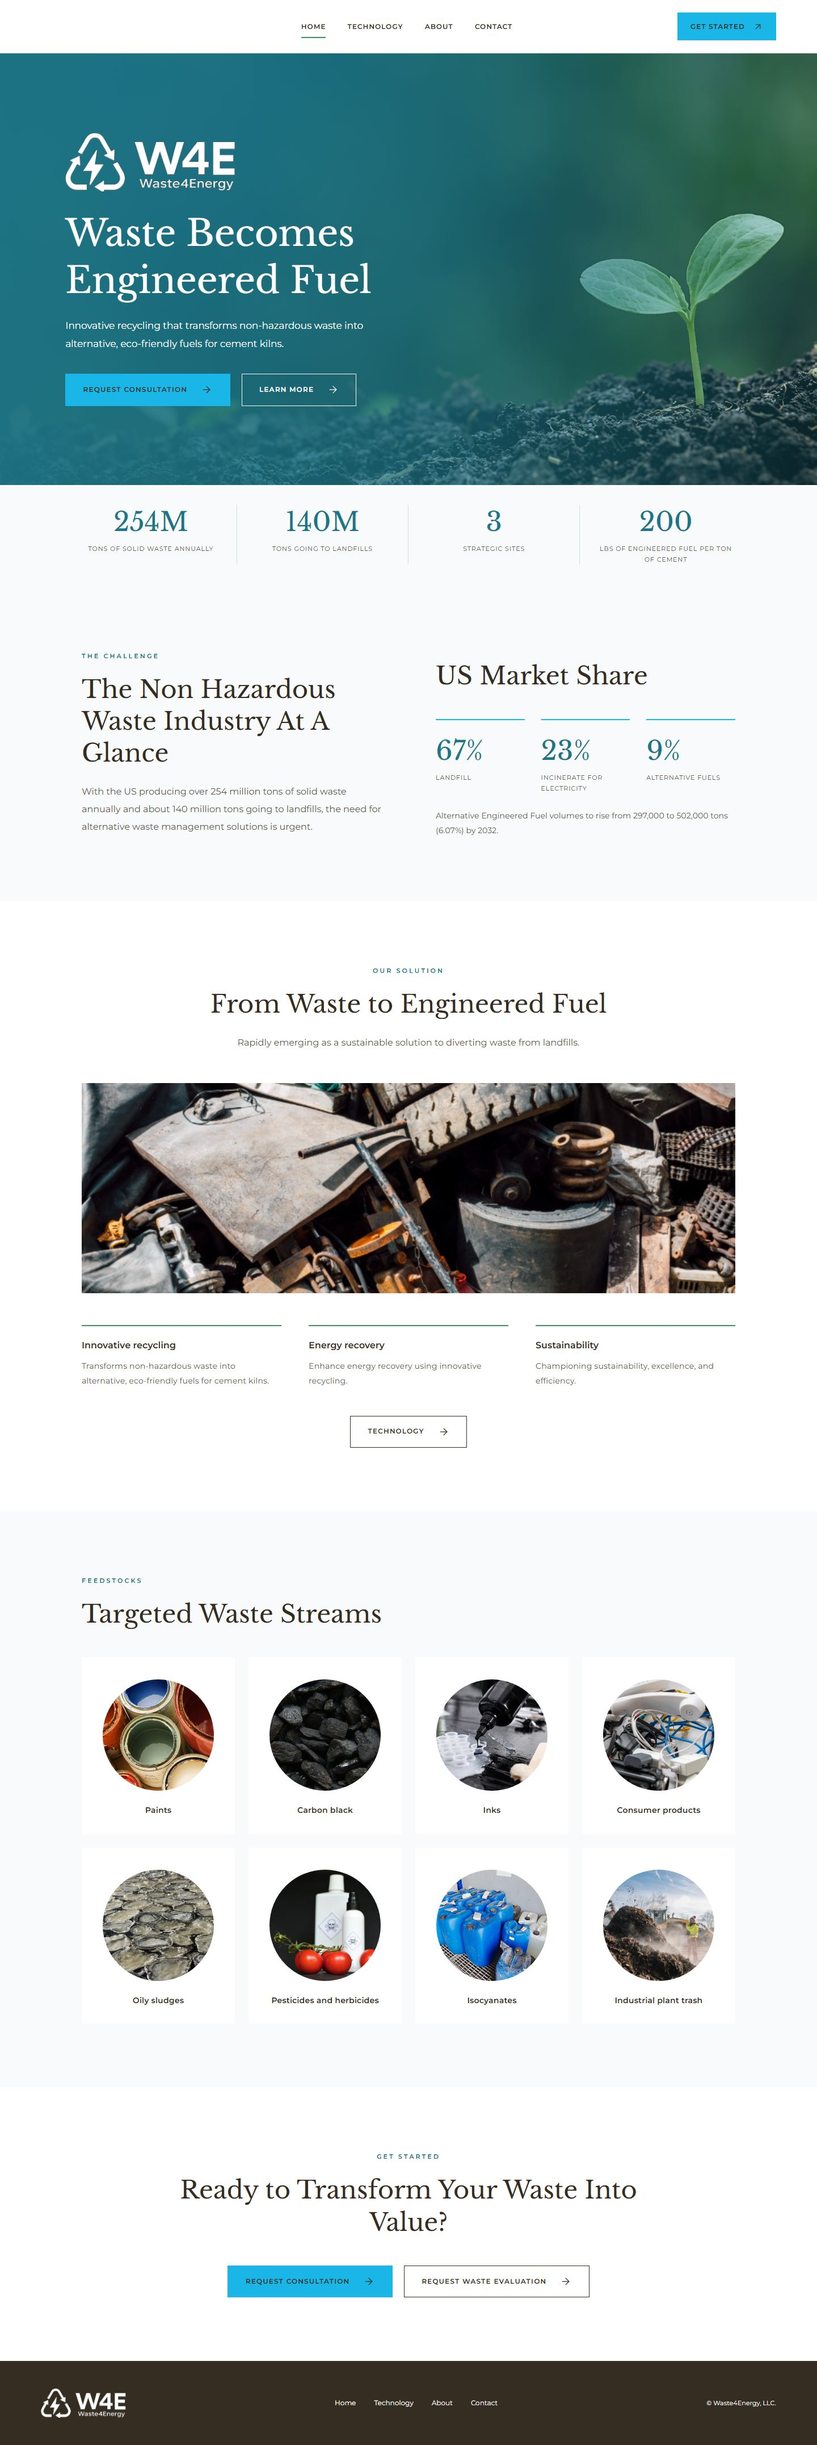
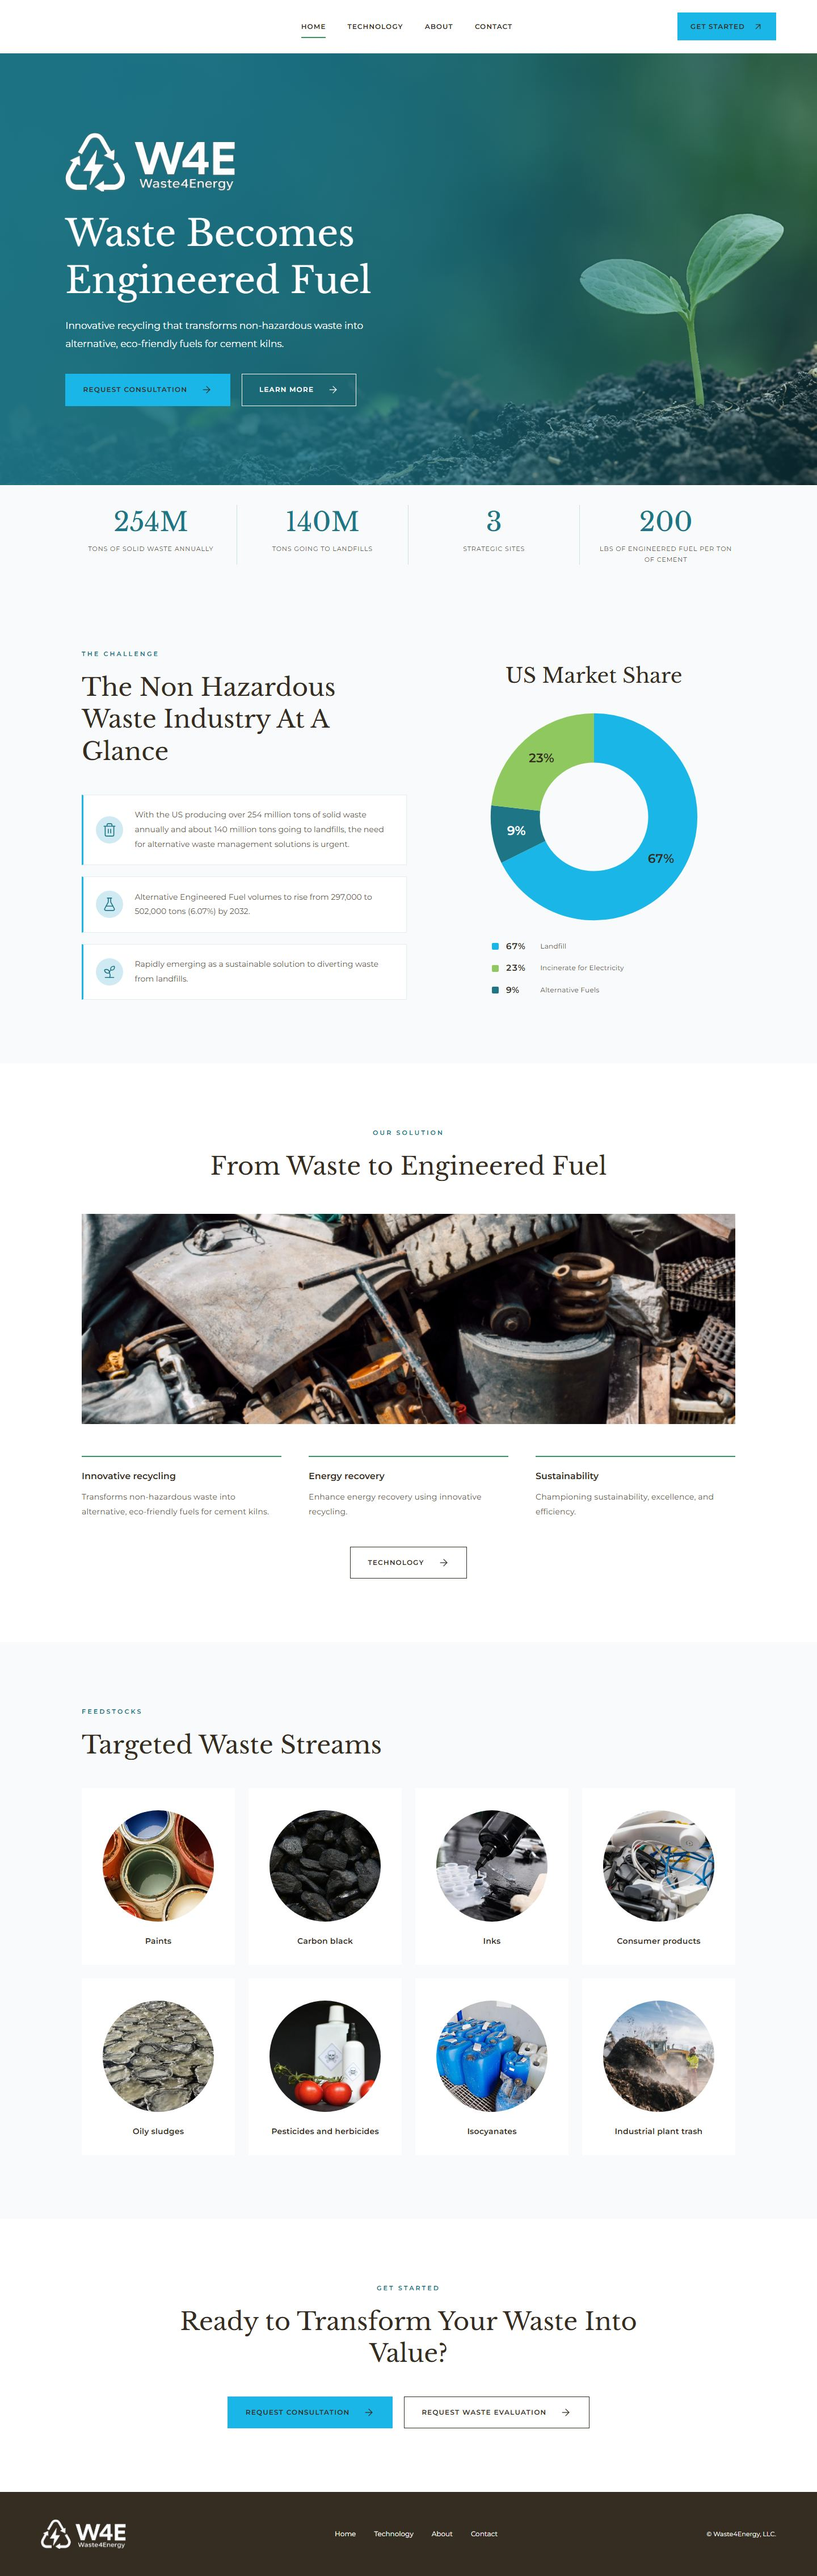
Add presentation industry callouts and donut chart and try the source Vision photo

diff --git a/Waste4Energy_Review/styles.css b/Waste4Energy_Review/styles.css
@@ -37,3 +37,26 @@
 
 .stream-card{text-align:center}
 .stream-image{width:100%;max-width:220px;aspect-ratio:1;object-fit:cover;border:5px solid var(--white);border-radius:50%;margin:0 auto 1.25rem}
+
+.challenge-grid{display:grid;grid-template-columns:1.15fr 1fr;gap:5rem;align-items:center}
+.challenge-points{display:grid;gap:1.25rem}
+.challenge-point{display:grid;grid-template-columns:48px minmax(0,1fr);gap:1.25rem;align-items:center;padding:1.4rem;background:var(--white);border:1px solid color-mix(in srgb,var(--teal) 12%,transparent);border-left:3px solid var(--cyan)}
+.challenge-symbol{width:48px;height:48px;display:flex;align-items:center;justify-content:center;border-radius:50%;background:var(--pale);color:var(--teal)}
+.challenge-symbol .icon{width:26px;height:26px}
+.challenge-point p,.challenge-point .source-growth{font-size:.875rem;line-height:1.85;margin:0}
+.market-panel>.section-head{margin-bottom:1rem;text-align:center}
+.market-panel>.section-head h2{font-size:clamp(1.7rem,2.5vw,2.35rem)}
+.market-chart{max-width:400px;margin-inline:auto}
+.market-chart svg{display:block;width:100%;height:auto;overflow:visible}
+.market-sector{fill:none;stroke-width:78}
+.market-sector-0{stroke:var(--cyan)}.market-sector-1{stroke:var(--sapling)}.market-sector-2{stroke:var(--teal)}
+.market-percent{font-family:var(--body-font);font-size:20px;font-weight:600;fill:var(--soil)}.market-percent-2{fill:var(--white)}
+.market-legend{list-style:none;display:grid;gap:.9rem;max-width:360px;margin:1rem auto 0}
+.market-legend-item{display:grid;grid-template-columns:12px 3rem minmax(0,1fr);gap:.8rem;align-items:center;padding:0;border:0}
+.market-swatch{width:12px;height:12px;border-radius:2px}
+.market-swatch-0{background:var(--cyan)}.market-swatch-1{background:var(--sapling)}.market-swatch-2{background:var(--teal)}
+.market-legend .stat-number{font-family:var(--body-font);font-size:.95rem;line-height:1.6;color:var(--soil);margin:0;font-weight:600;font-variant-numeric:tabular-nums}
+.market-label{font-size:.78rem;color:var(--muted)}
+@media(max-width:1000px){.challenge-grid{gap:2.5rem}}
+@media(max-width:850px){.challenge-grid{grid-template-columns:1fr;gap:3rem}.market-panel{max-width:440px;width:100%;margin-inline:auto}}
+@media(max-width:760px){.challenge-point{grid-template-columns:38px minmax(0,1fr);gap:1rem;padding:1.2rem}.challenge-symbol{width:38px;height:38px}.challenge-symbol .icon{width:23px;height:23px}.challenge-point p{font-size:.82rem}.market-chart{max-width:340px}}

diff --git a/Waste4Energy_Review/scripts/assets.py b/Waste4Energy_Review/scripts/assets.py
@@ -6,6 +6,7 @@ import fitz
 source = Path(sys.argv[1])
 out = Path(__file__).resolve().parents[1] / 'assets'
 doc = fitz.open(source)
+(out / 'vision-processing.jpeg').write_bytes(doc.extract_image(24)['image'])
 # Original, unmodified photos from physical slide 5, matched to their labels.
 for name, xref in [('paints', 106), ('carbon-black', 107), ('inks', 108), ('consumer-products', 109), ('oily-sludges', 110), ('pesticides-herbicides', 111), ('isocyanates', 112), ('industrial-plant-trash', 113)]:
     (out / f'waste-{name}.jpeg').write_bytes(doc.extract_image(xref)['image'])

diff --git a/Waste4Energy_Review/scripts/vendor-assets.py b/Waste4Energy_Review/scripts/vendor-assets.py
@@ -6,7 +6,7 @@ import json
 
 root = Path(__file__).resolve().parents[1]
 out = root / 'assets'
-names = ['paint-bucket','flame','droplets','package','fuel','sprout','flask-conical','factory','truck','recycle','warehouse','arrow-right','menu','x','arrow-up-right']
+names = ['paint-bucket','flame','droplets','package','fuel','sprout','flask-conical','factory','truck','recycle','warehouse','trash','arrow-right','menu','x','arrow-up-right']
 def get(url):
     return urlopen(Request(url, headers={'User-Agent':'Mozilla/5.0'}), timeout=30).read()
 

diff --git a/Waste4Energy_Review/CONTENT-MAP.md b/Waste4Energy_Review/CONTENT-MAP.md
@@ -5,9 +5,9 @@ Source: `Waste4Energy Presentation.pdf` (11 physical pages), supplied locally. T
 | Source | Destination | Verification |
 | --- | --- | --- |
 | 1: company overview | About introduction | Source wording retained, including dated projections and source grammar. |
-| 2: Our Vision | About vision / roadmap; short excerpts on Home | Texas, Alabama, Western US retained. No invented completion dates or Arizona facility. Home hero uses an excerpt from the supplied vision. |
+| 2: Our Vision | About vision / roadmap; short excerpts on Home | Texas, Alabama, Western US retained. No invented completion dates or Arizona facility. Home hero uses an excerpt from the supplied vision. The original recycling-facility photo from this slide supplies the Our Vision section's animated background. |
 | 3: executive team | About team | Visually checked: Paul Bordelon = CEO; Jeff Gloyd = COO; Torry Ingram = Chief Sales Officer; Grant Williams = Strategic Consultant. Biographies and corresponding source portraits retained. |
-| 4: industry overview | Home challenge / market-share block | 254M annual tons, 140M landfill tons; 67%, 23%, 9% preserved. Growth sentence 297,000 to 502,000 tons (6.07%) by 2032 retained. Source percentages do not sum to 100%; no extra category invented. |
+| 4: industry overview | Home challenge / market-share block | All three source statements appear as separate boxes with consistent line icons. The donut chart preserves 67% Landfill, 23% Incinerate for Electricity, and 9% Alternative Fuels. Growth sentence 297,000 to 502,000 tons (6.07%) by 2032 retained. Source percentages total 99%; the ring uses their relative proportions and preserves displayed values without inventing a category. |
 | 5: targeted waste streams | Home photo grid | Paints, carbon black, inks, consumer products, oily sludges, pesticides and herbicides, isocyanates, industrial plant trash. Each category uses its corresponding original embedded photo from the presentation, displayed in a circle. Template's different eight categories removed. |
 | 6: alternative fuels | Technology intro and cement-process illustration | 200 lbs of engineered fuel per ton of cement added instead of coal. Not reworded as a guaranteed emissions reduction. Uses the exact supplied Process_Illustration.jpeg, with an accessible text description and full-size link. |
 | 7: site pitch | Technology site metrics and site plan | 30,000 NT/yr, 195,000 sqft, 17,600 sqft and +3,500 sqft retained. Full source plan preserves ancillary labels and dimensions. |
